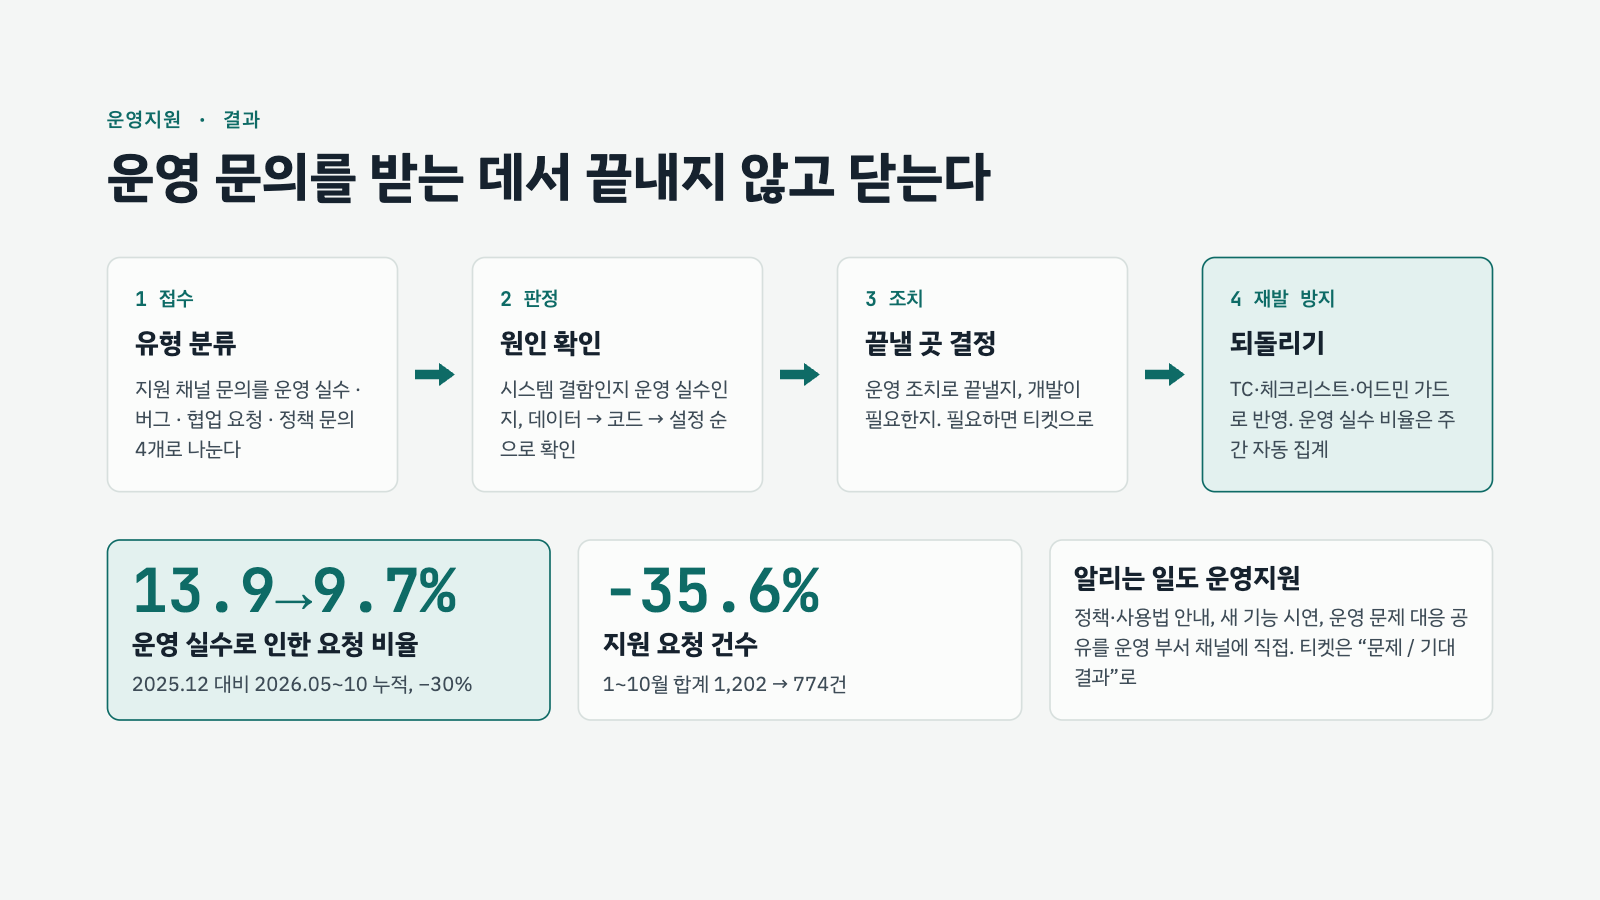
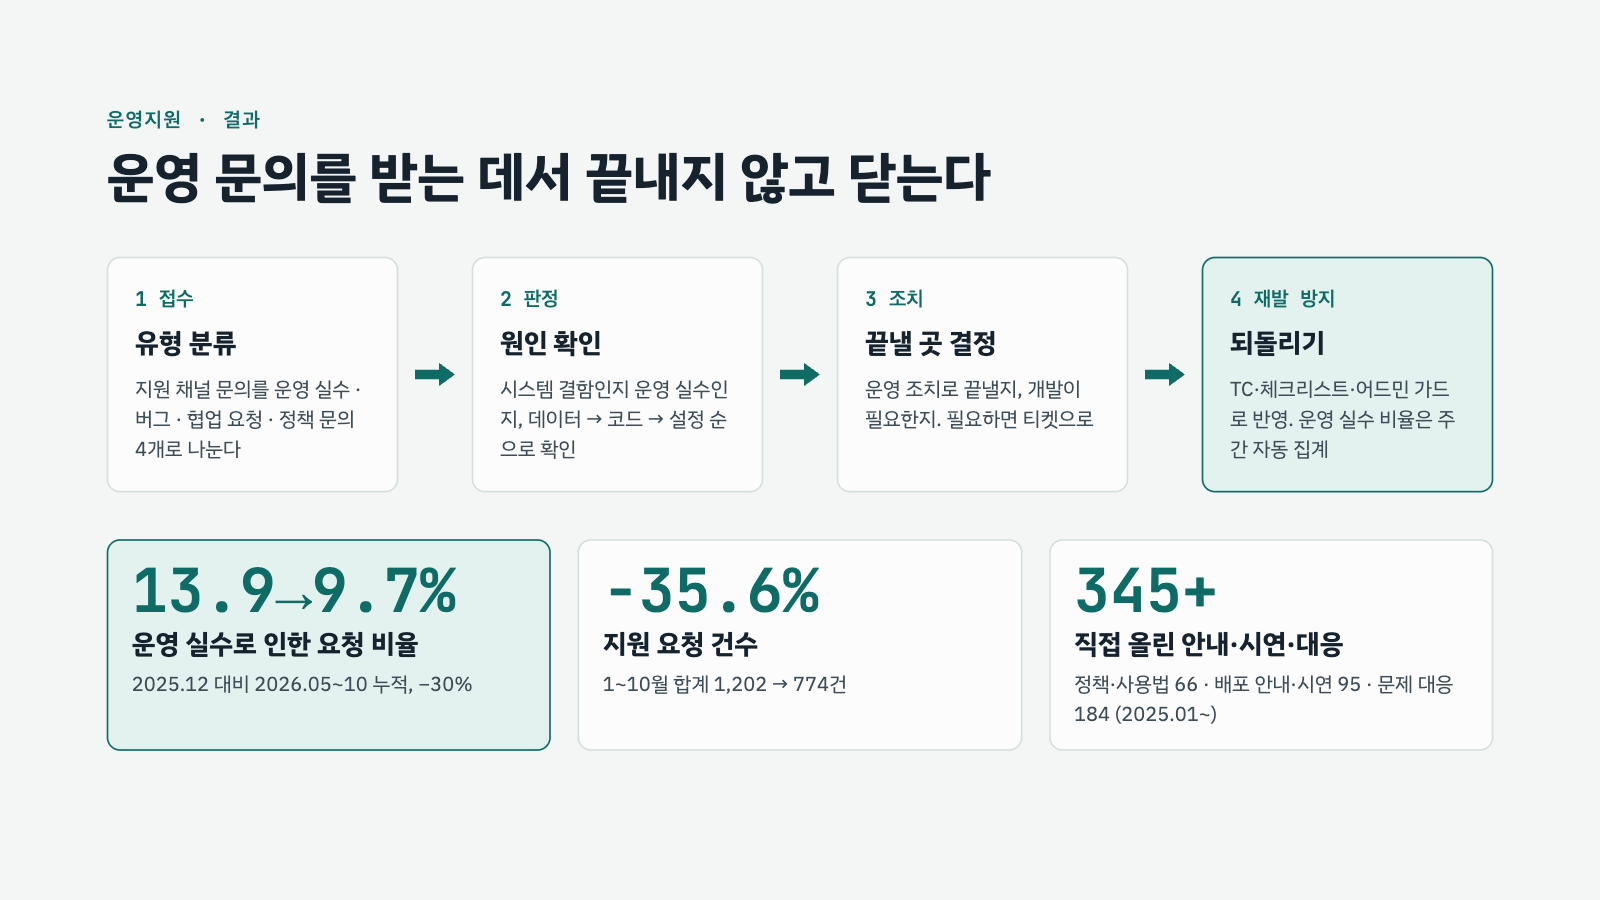
운영지원 메시지 345건(정책·사용법 66 · 배포 안내·시연 95 · 문제 대응 184) 반영

Changed region(s): [[0.6562, 0.6222, 0.9062, 0.8089], [0.0625, 0.7778, 0.0938, 0.8089]]

diff --git a/5-presentation/portfolio-deck.html b/5-presentation/portfolio-deck.html
@@ -219,9 +219,9 @@ table.tbl th{font-weight:700}
 <div class="cols3">
 <div class="card hl compact"><p class="big" style="font-size:72px;">13.9→9.7%</p><h3 class="ctitle">운영 실수로 인한 요청 비율</h3><p class="ctext">2025.12 대비 2026.05~10 누적, −30%</p></div>
 <div class="card compact"><p class="big" style="font-size:72px;">−35.6%</p><h3 class="ctitle">지원 요청 건수</h3><p class="ctext">1~10월 합계 1,202 → 774건</p></div>
-<div class="card compact"><h3 class="ctitle">알리는 일도 운영지원</h3><p class="ctext">정책·사용법 안내, 새 기능 시연, 운영 문제 대응 공유를 운영 부서 채널에 직접. 티켓은 “문제 / 기대 결과”로</p></div>
+<div class="card compact"><p class="big" style="font-size:72px;">345+</p><h3 class="ctitle">직접 올린 안내·시연·대응</h3><p class="ctext">정책·사용법 66 · 배포 안내·시연 95 · 문제 대응 184 (2025.01~)</p></div>
 </div>
-<aside>지원 직무를 QA와 운영지원으로 잡은 이유가 이 슬라이드입니다. 운영 문의가 오면 유형을 나누고, 시스템 결함인지 운영 실수인지 판정한 뒤, 운영 조치로 끝낼지 개발이 필요한지까지 정리해서 닫습니다. 운영 실수로 판정된 건은 어드민 가드로 되돌리고, 사용법을 모르는 분들께는 정책 안내와 새 기능 시연, 문제가 생겼을 때 대응 방법을 운영 부서 채널에 직접 공유했습니다. 그 결과 운영 실수가 원인인 요청 비율이 작년 12월 13.9%에서 올해 5~10월 9.7%로 줄었고, 지원 요청 건수도 전년 같은 기간보다 35.6% 줄었습니다. 같은 기간 다른 변화도 있어서 이 숫자를 어드민 개선 하나의 효과로 말하지는 않습니다.</aside>
+<aside>지원 직무를 QA와 운영지원으로 잡은 이유가 이 슬라이드입니다. 운영 문의가 오면 유형을 나누고, 시스템 결함인지 운영 실수인지 판정한 뒤, 운영 조치로 끝낼지 개발이 필요한지까지 정리해서 닫습니다. 운영 실수로 판정된 건은 어드민 가드로 되돌리고, 사용법을 모르는 분들께는 정책 안내와 새 기능 시연, 문제가 생겼을 때 대응 방법을 운영 부서 채널에 직접 공유했습니다. 작년 1월부터 직접 올린 것만 345건 이상이고, 올해부터는 배포 안내가 문제 대응보다 많아졌습니다. 그 결과 운영 실수가 원인인 요청 비율이 작년 12월 13.9%에서 올해 5~10월 9.7%로 줄었고, 지원 요청 건수도 전년 같은 기간보다 35.6% 줄었습니다. 같은 기간 다른 변화도 있어서 이 숫자를 어드민 개선 하나의 효과로 말하지는 않습니다.</aside>
 </section>
 <section id="aisystem" class="dark">
 <div class="head">

diff --git a/tools/check_numbers.py b/tools/check_numbers.py
@@ -27,6 +27,7 @@ CANON = {
     "운영 실수 전": "13.9",
     "운영 실수 후": "9.7",
     "요청 감소": "35.6",
+    "운영지원 메시지": "345",
 }
 
 # (설명, 정규식, 정본 키 목록 — 그룹 순서대로)
@@ -39,6 +40,7 @@ RULES = [
     ("커밋 수", re.compile(r"(?:직접|프로덕션)[^\n|]{0,12}?커밋\s*\*{0,2}(\d{3})\s*\*{0,2}\s*건"), ["직접 커밋"]),
     ("운영 실수 비율", re.compile(r"(\d{1,2}\.\d)%\s*\*{0,2}\s*→\s*\*{0,2}(\d{1,2}\.\d)%"), ["운영 실수 전", "운영 실수 후"]),
     ("요청 감소율", re.compile(r"요청[^\n|]{0,40}?−(\d{2}\.\d)%"), ["요청 감소"]),
+    ("운영지원 메시지", re.compile(r"(?:운영지원 메시지|운영 부서에 직접 공유)[^\n|]{0,8}?\*{0,2}\(?(\d{3})건"), ["운영지원 메시지"]),
     ("검증 티켓", re.compile(r"검증[^\n|]{0,6}?\*{0,2}(\d,\d{3})\s*\*{0,2}\s*건"), ["검증 티켓"]),
 ]
 

diff --git a/2-career-flow/README.md b/2-career-flow/README.md
@@ -43,7 +43,15 @@
 
 **무엇을 했나**
 - **실수가 나던 자리에 가드를 넣었다**(프론트 단독은 직접 구현, 서버 변경은 개발자와 함께) — 필수 강의 수강률 0% 저장 차단, 설문 설명 글자 수 초과를 저장 전에 안내, 과제 양식 변경 시 기존 과제가 지워지던 경로 차단, 팝업 노출 시각 표기 오류 수정 등. 만족도 조사 의견에서 출발해 코드에서 원인을 확인한 것들이다([사례 01](cases/01-backoffice-as-product.md)).
-- **사용법을 모르는 사람에게 먼저 알렸다** — 주요 기능의 정책·사용법 안내, 새 기능 배포 후 시연, 운영 문제가 생겼을 때 원인·조치·우회 방법 공유를 운영 부서 채널에 직접 올렸다.
+- **사용법을 모르는 사람에게 먼저 알렸다** — 운영 부서 채널에 직접 올린 운영지원 메시지 **345건 이상**(2025.01~2026.11, 키워드 검색 기준 최소치).
+
+  | 유형 | 건수 | 예 |
+  |---|---|---|
+  | 정책·사용법 안내 | 66 | 문자 발송이 자동으로 걸러지는 조건, 수강후기가 언제·어떤 설정에서 노출되는지, 이미 있는 기능의 사용법 |
+  | 새 기능 배포 안내·시연 | 95 | 잔여수량 표시 설정 어드민화(시범 운영 + Q&A 세션), 동영상 일괄 등록(대면 가이드), 조편성 엑셀 업로드 |
+  | 운영 문제 대응 | 184 | 외부 영상 서버 장애 시 고객 응대 가이드, 탈퇴가 막히는 문제의 원인과 우회 방법 |
+
+  2025년에는 문제 대응이 대부분이었고, 2026 상반기부터 배포 안내가 문제 대응을 앞섰다. 공지는 "배경 → 바뀐 점 → 사용 방법 → 유의사항" 순서로 고정했다.
 - **문의마다 원인을 판정했다** — 시스템 결함인지 운영 실수인지, 운영 조치로 끝낼지 개발이 필요한지까지 정리하고, 판정 형식을 도구로 고정했다.
 
 **읽을 때 주의**

diff --git a/이력서.md b/이력서.md
@@ -16,7 +16,7 @@
 ## 핵심 역량
 
 - **품질을 숫자로 관리** — 측정 체계가 없던 곳에 결함 유출률 지표를 세우고, 목표 미달(3.40%, 목표 2%)까지 그대로 보고
-- **운영 문의를 닫는 운영지원** — 운영 실수가 원인인 지원 요청 비율 **13.9% → 9.7%**(−30%), 지원 요청 건수 전년 대비 **−35.6%**. 실수가 나던 자리에 어드민 가드를 넣고, 정책·사용법 안내와 새 기능 시연, 운영 문제 대응 공유를 직접 맡았다. 문의마다 원인을 "시스템 결함 / 운영 실수"로 판정하는 절차를 도구로 고정
+- **운영 문의를 닫는 운영지원** — 운영 실수가 원인인 지원 요청 비율 **13.9% → 9.7%**(−30%), 지원 요청 건수 전년 대비 **−35.6%**. 실수가 나던 자리에 어드민 가드를 넣고, 정책·사용법 안내·새 기능 시연·운영 문제 대응을 운영 부서에 직접 공유(345건+). 문의마다 원인을 "시스템 결함 / 운영 실수"로 판정하는 절차를 도구로 고정
 - **운영 도구를 프로덕트로** — 백오피스 KR 오너로 월간 의견 조사·개선 사이클을 운영해 개선 PR 머지 **25 → 49건**, 만족도 8.23 → 9.33(보조 지표, 최종 회차 15명 응답)
 - **원인 진단과 직접 수정** — 프로덕션 레포 6곳에 **직접 커밋 328건**(2026.02~11). 진단·검증·배포 확인은 직접, 코드 작성은 AI 에이전트와 함께
 - **요구사항·정책 정의** — PRD 12건 이상, 정책서 6건 이상을 기획 담당자로 작성
